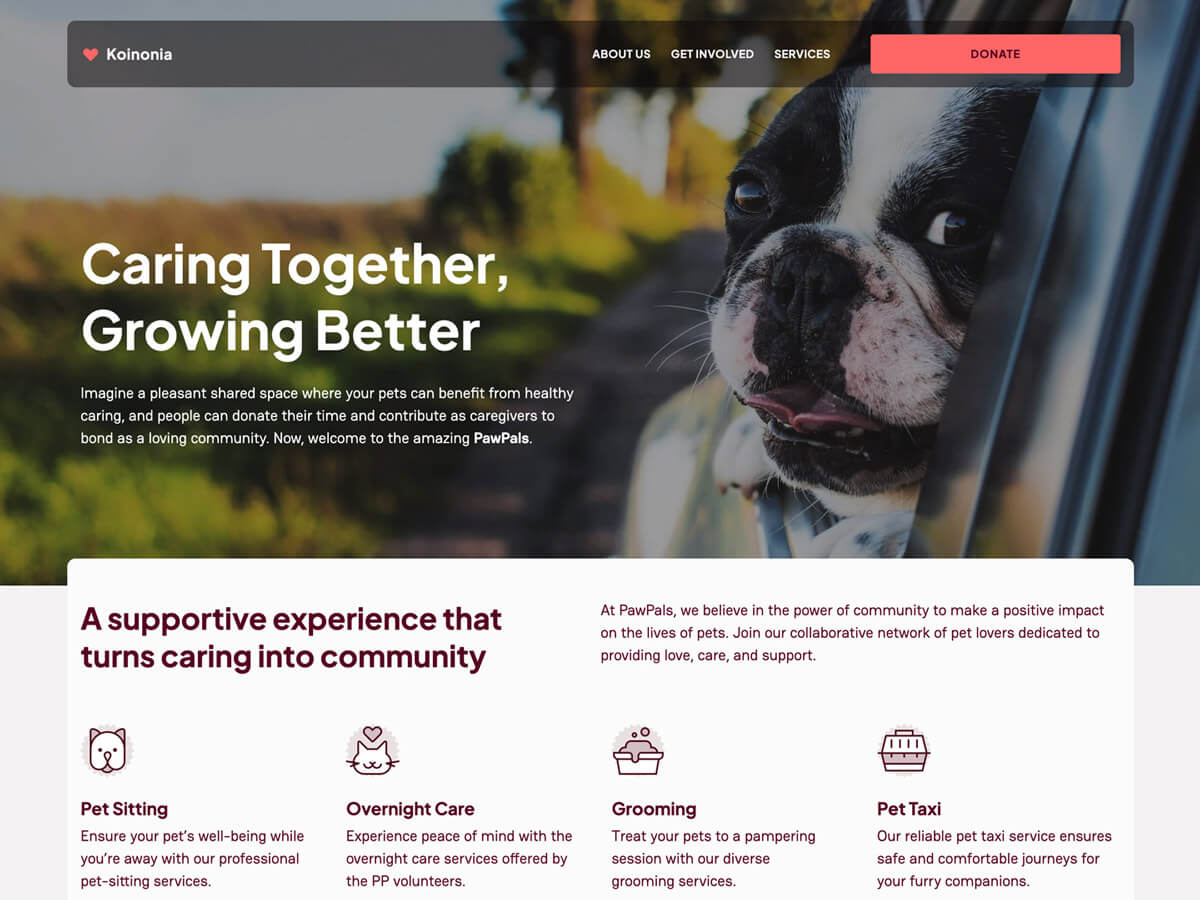
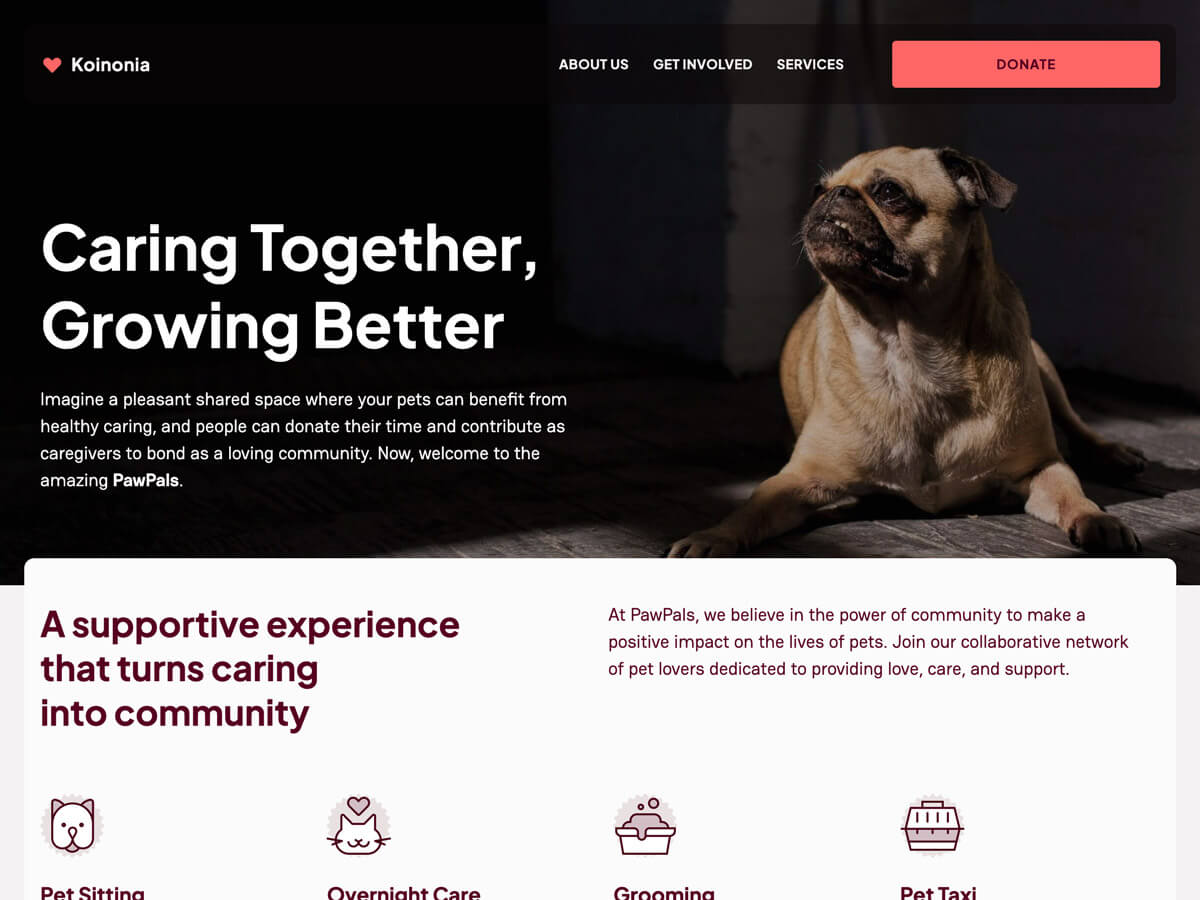
Koinonia: replaces the Jetpack submission block (#8495)
* Koinonia: replaces the Jetpack submission block

* Koinonia: updates the screenshot

diff --git a/koinonia/patterns/header-home.php b/koinonia/patterns/header-home.php
@@ -5,8 +5,8 @@
  * Inserter: no
  */
 ?>
-<!-- wp:cover {"url":"<?php echo esc_url( get_template_directory_uri() ); ?>/assets/images/img_rawpixel-id-5924467.jpg","dimRatio":80,"overlayColor":"quaternary","isUserOverlayColor":true,"minHeight":65,"minHeightUnit":"vh","contentPosition":"top center","sizeSlug":"large","style":{"spacing":{"padding":{"top":"0","bottom":"0","left":"0","right":"0"}}},"layout":{"type":"constrained"}} -->
-<div class="wp-block-cover has-custom-content-position is-position-top-center" style="padding-top:0;padding-right:0;padding-bottom:0;padding-left:0;min-height:65vh"><img class="wp-block-cover__image-background size-large" alt="" src="<?php echo esc_url( get_template_directory_uri() ); ?>/assets/images/img_rawpixel-id-5924467.jpg" data-object-fit="cover"/><span aria-hidden="true" class="wp-block-cover__background has-quaternary-background-color has-background-dim-80 has-background-dim"></span><div class="wp-block-cover__inner-container"><!-- wp:group {"metadata":{"name":"Cover wrapper"},"align":"wide","style":{"dimensions":{"minHeight":"65vh"}},"layout":{"type":"flex","orientation":"vertical","justifyContent":"stretch","verticalAlignment":"space-between"}} -->
+<!-- wp:cover {"url":"<?php echo esc_url( get_template_directory_uri() ); ?>/assets/images/img_rawpixel-id-5924467.jpg","dimRatio":60,"overlayColor":"quaternary","isUserOverlayColor":true,"minHeight":65,"minHeightUnit":"vh","contentPosition":"top center","sizeSlug":"large","style":{"spacing":{"padding":{"top":"0","bottom":"0","left":"0","right":"0"}}},"layout":{"type":"constrained"}} -->
+<div class="wp-block-cover has-custom-content-position is-position-top-center" style="padding-top:0;padding-right:0;padding-bottom:0;padding-left:0;min-height:65vh"><img class="wp-block-cover__image-background  size-large" alt="" src="<?php echo esc_url( get_template_directory_uri() ); ?>/assets/images/img_rawpixel-id-5924467.jpg" data-object-fit="cover"/><span aria-hidden="true" class="wp-block-cover__background has-quaternary-background-color has-background-dim-60 has-background-dim"></span><div class="wp-block-cover__inner-container"><!-- wp:group {"metadata":{"name":"Cover wrapper"},"align":"wide","style":{"dimensions":{"minHeight":"65vh"}},"layout":{"type":"flex","orientation":"vertical","justifyContent":"stretch","verticalAlignment":"space-between"}} -->
 <div class="wp-block-group alignwide" style="min-height:65vh"><!-- wp:group {"metadata":{"name":"Fixed Menu"},"align":"wide","style":{"position":{"type":"sticky","top":"0px"},"spacing":{"padding":{"top":"var:preset|spacing|50","bottom":"var:preset|spacing|50"}}},"layout":{"type":"default"}} -->
 <div class="wp-block-group alignwide" style="padding-top:var(--wp--preset--spacing--50);padding-bottom:var(--wp--preset--spacing--50)"><!-- wp:columns {"verticalAlignment":"center","align":"wide","style":{"border":{"radius":"10px"},"spacing":{"padding":{"right":"var:preset|spacing|40","left":"var:preset|spacing|40"},"blockGap":{"top":"var:preset|spacing|30","left":"var:preset|spacing|50"}},"color":{"background":"#0a050780"}}} -->
 <div class="wp-block-columns alignwide are-vertically-aligned-center has-background" style="border-radius:10px;background-color:#0a050780;padding-right:var(--wp--preset--spacing--40);padding-left:var(--wp--preset--spacing--40)"><!-- wp:column {"verticalAlignment":"center","width":"75%","style":{"elements":{"link":{"color":{"text":"var:preset|color|background"}}}},"textColor":"background"} -->

diff --git a/koinonia/patterns/home.php b/koinonia/patterns/home.php
@@ -234,18 +234,11 @@ echo sprintf( esc_html__( 'Subscribe to%1$sGet our News', 'koinonia' ), '<br>' )
 <p class="has-text-align-center"><?php esc_html_e('PawPals invites you to be a hero for pets! Collaborate with us to create a world where no pet is left behind.', 'koinonia');?></p>
 <!-- /wp:paragraph -->
 
+<!-- wp:jetpack/subscriptions {"buttonWidth":"25%"} /-->
+
 <!-- wp:spacer {"height":"var:preset|spacing|40","metadata":{"name":"Spacer S"},"style":{"layout":[]}} -->
 <div style="height:var(--wp--preset--spacing--40)" aria-hidden="true" class="wp-block-spacer"></div>
-<!-- /wp:spacer -->
-
-<!-- wp:jetpack/contact-form {"subject":"[PawPals] Blog Home","to":"dev-email@wpengine.local","className":"is-style-animated"} -->
-<div class="wp-block-jetpack-contact-form is-style-animated">
-<!-- wp:jetpack/field-name {"required":true,"requiredText":"(required)","borderRadius":5,"borderWidth":0,"labelFontSize":"x-small","fieldFontSize":"x-small","lineHeight":1,"labelLineHeight":1,"fieldBackgroundColor":"#fbfbfb"} /-->
-<!-- wp:jetpack/field-email {"required":true,"requiredText":"(required)","borderRadius":5,"borderWidth":0,"labelFontSize":"x-small","fieldFontSize":"x-small","lineHeight":1,"labelLineHeight":1,"fieldBackgroundColor":"#fbfbfb"} /-->
-<!-- wp:jetpack/field-telephone {"requiredText":"(required)","borderRadius":5,"borderWidth":0,"labelFontSize":"x-small","fieldFontSize":"x-small","lineHeight":1,"labelLineHeight":1,"fieldBackgroundColor":"#fbfbfb"} /-->
-<!-- wp:jetpack/button {"element":"button","text":"Subscribe","width":"100%","lock":{"remove":true},"className":"is-style-fill"} /-->
-</div>
-<!-- /wp:jetpack/contact-form --></div>
+<!-- /wp:spacer --></div>
 <!-- /wp:group --></main>
 <!-- /wp:group -->
 
